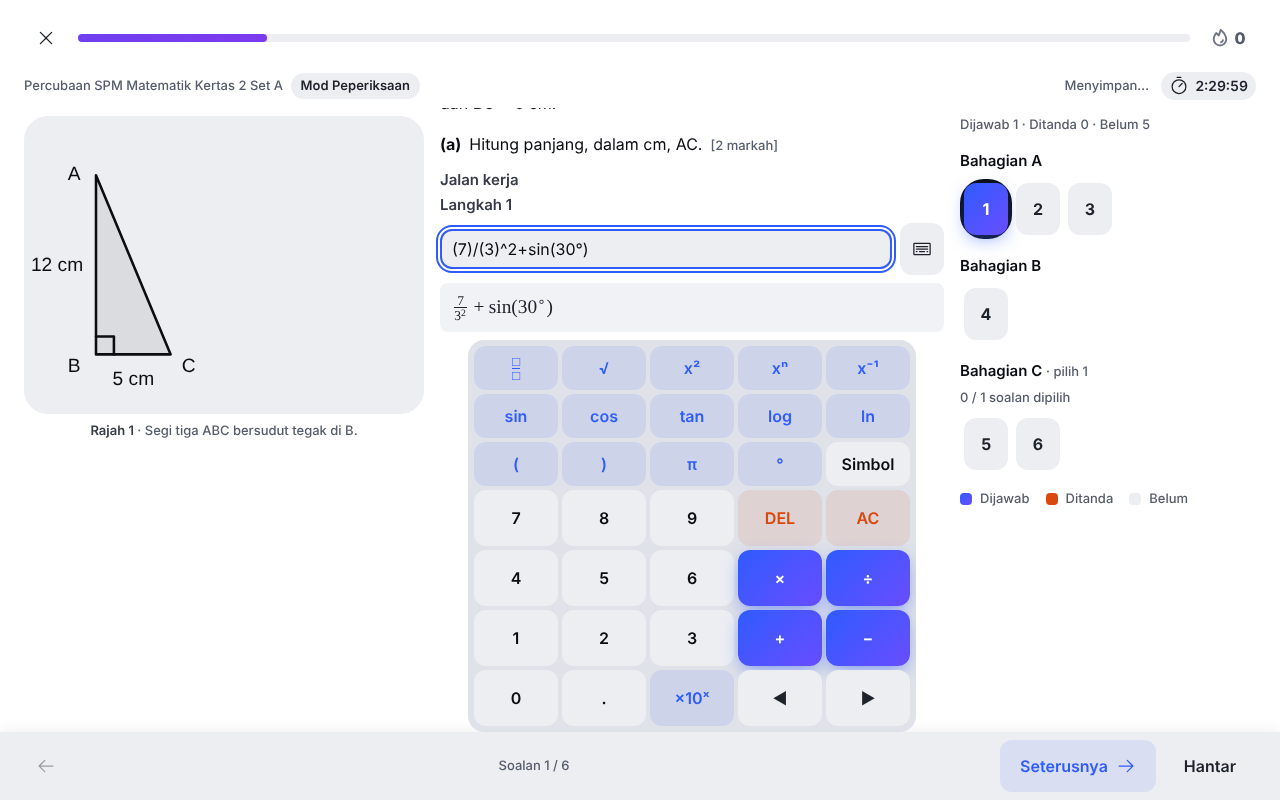
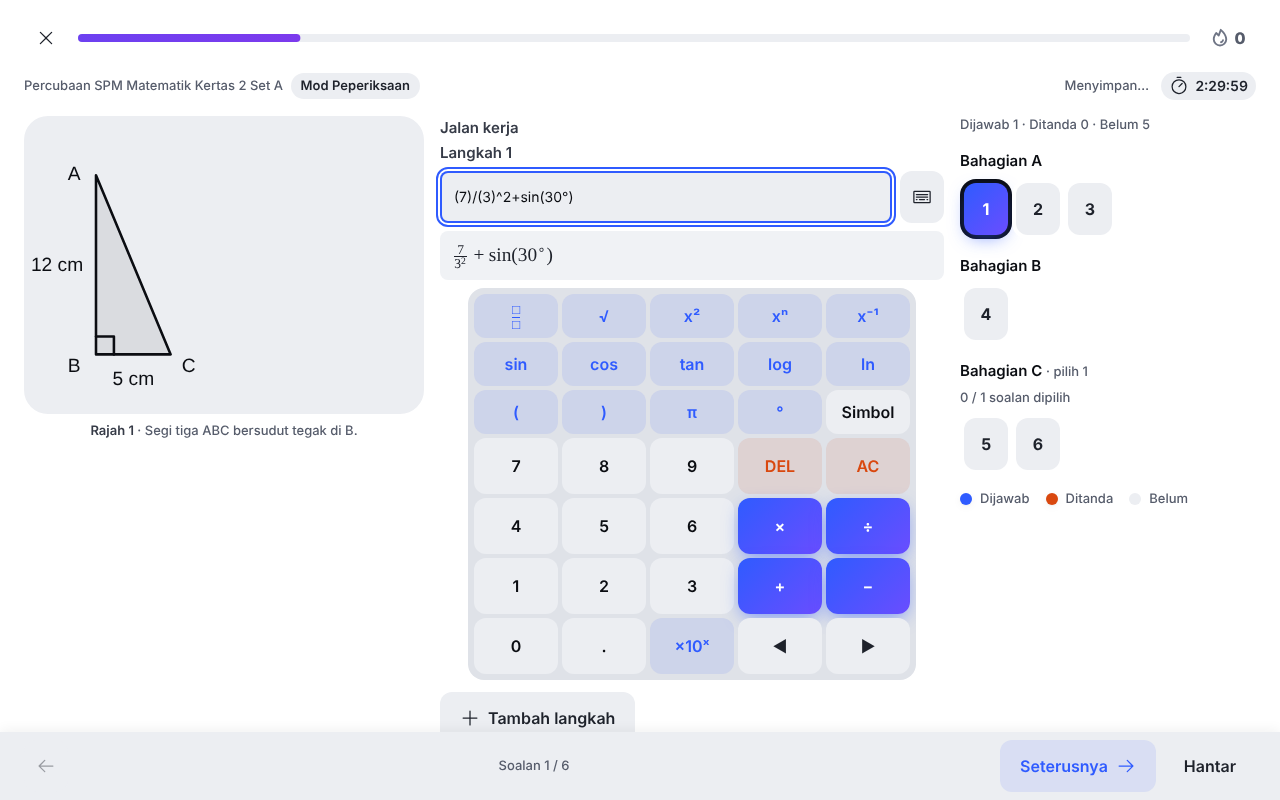
fix(m28-bijak-spm): FB-047 keypad review follow-ups
Tutup returns focus to the field's keypad toggle; the md query is (min-width: 48rem); the
dock scrolls (max-h-dvh) with a sticky display row so a landscape phone still reaches Tutup;
revealField aligns the whole field (label included) under the sticky strip, or hides the label
when there is too little room; MathField input is size lg (>= 44 px); MathField takes an
inputmode prop (none while the keypad is open) and PartInput passes decimal for numeric leaves
instead of the v-decimal-inputmode directive. Evidence screenshots regenerated.

Claude-Session: https://claude.ai/code/session_01TXT87Q9DVT1cfY4XLBf2z9

diff --git a/src/modules/m28-bijak-spm/components/MathField.vue b/src/modules/m28-bijak-spm/components/MathField.vue
@@ -33,18 +33,27 @@ const props = withDefaults(
     hideLabel?: boolean
     /** Allow removing this line (step lines). */
     removable?: boolean
+    /** Soft keyboard hint while the on-screen keypad is closed (it is `none` while it is open). */
+    inputmode?: 'text' | 'decimal'
   }>(),
-  { placeholder: 'cth. 2x + 6', disabled: false, hideLabel: false, removable: false },
+  {
+    placeholder: 'cth. 2x + 6',
+    disabled: false,
+    hideLabel: false,
+    removable: false,
+    inputmode: 'text',
+  },
 )
 const emit = defineEmits<{ 'update:modelValue': [string]; remove: [] }>()
 
 const id = useId()
-const MD_PX = 768
+const MD_REM = 48
 const MEDIA_FEATURE = 'min-width'
-const WIDE_QUERY = `(${MEDIA_FEATURE}: ${MD_PX}px)`
+const WIDE_QUERY = `(${MEDIA_FEATURE}: ${MD_REM}rem)`
 const previewComp = ref<{ $el: HTMLElement } | null>(null)
 const wrapComp = ref<{ $el: HTMLElement } | null>(null)
 const wrap = computed<HTMLElement | null>(() => wrapComp.value?.$el ?? null)
+const toggleBtn = ref<{ $el: HTMLElement } | null>(null)
 const dock = ref<HTMLElement | null>(null)
 const spacer = ref<HTMLElement | null>(null)
 /** From `md` (768 px) the keypad is inline and sticky; below it is a bottom sheet over the footer. */
@@ -144,11 +153,14 @@ async function revealField(): Promise<void> {
   const free = (fixed ? rect.top : area.bottom - rect.height) - 8
   const f = field.getBoundingClientRect()
   const top = area.top + pinnedTop(sc, f.left + f.width / 2) + 4
-  const last = (!wide.value && field) || previewComp.value?.$el || field
-  const delta =
-    f.top < top
-      ? f.top - top
-      : Math.max(0, Math.min(last.getBoundingClientRect().bottom - free, f.top - top))
+  const boxTop = box.getBoundingClientRect().top
+  const last = ((!wide.value && field) || previewComp.value?.$el || field).getBoundingClientRect()
+  let delta: number
+  if (boxTop >= top && last.bottom <= free)
+    delta = 0 // already in the free area
+  else if (last.bottom - (boxTop - top) <= free)
+    delta = boxTop - top // whole field, label first
+  else delta = f.top - top // too little room: the line first, its label under the strip
   if (delta !== 0) sc.scrollTop += delta
 }
 
@@ -162,16 +174,18 @@ function toggleKeypad(): void {
   void revealField()
 }
 
-function closeKeypad(refocus = false): void {
+function closeKeypad(focus?: 'input' | 'toggle'): void {
   openKeypad.value = null
-  if (refocus) input()?.focus({ preventScroll: true })
+  const el =
+    focus === 'toggle' ? (toggleBtn.value?.$el ?? null) : focus === 'input' ? input() : null
+  el?.focus({ preventScroll: true })
 }
 
 /** Esc closes the open keypad from the input line too (the keypad's own Esc handles its keys). */
 function onEsc(e: KeyboardEvent): void {
   if (!keypad.value) return
   e.stopPropagation()
-  closeKeypad(true)
+  closeKeypad('input')
 }
 
 // A tap or focus outside the field and its keypad closes it (keys are inside, so they never do).
@@ -222,17 +236,18 @@ onBeforeUnmount(() => {
         :placeholder="placeholder"
         :disabled="disabled"
         :aria-label="hideLabel ? label : undefined"
-        :inputmode="keypad ? 'none' : 'text'"
+        :inputmode="keypad ? 'none' : inputmode"
         autocomplete="off"
         autocapitalize="off"
         spellcheck="false"
-        size="xl"
+        size="lg"
         class="min-w-0 grow"
         data-testid="math-input"
         @update:model-value="onInput"
         @keydown.enter.prevent
       />
       <UButton
+        ref="toggleBtn"
         type="button"
         color="neutral"
         variant="soft"
@@ -278,7 +293,7 @@ onBeforeUnmount(() => {
       />
       <div
         ref="dock"
-        class="fixed inset-x-0 bottom-0 z-30 md:sticky"
+        class="fixed inset-x-0 bottom-0 z-30 max-h-dvh overflow-y-auto md:sticky"
         data-testid="math-keyboard-dock"
       >
         <DsSurface
@@ -290,43 +305,41 @@ onBeforeUnmount(() => {
         >
           <div class="p-1.5">
             <DsStack gap="2xs">
-              <!-- Sheet display: the preview of the line next to the close key (the footer is under the sheet). -->
-              <DsCluster v-if="!wide" gap="xs" :wrap="false">
-                <DsSurface
-                  level="raised"
-                  padding="none"
-                  radius="chip"
-                  :clip="false"
-                  class="grow overflow-x-auto"
-                  data-testid="math-display"
-                >
-                  <div
-                    class="flex min-h-11 items-center px-3"
-                    :data-testid="hasContent ? 'math-preview' : undefined"
+              <!-- Sheet display: the preview of the line next to the close key (the footer is under the sheet).
+                   It stays on top when a short (landscape) screen scrolls the sheet. -->
+              <div v-if="!wide" class="sticky top-0 z-10 bg-accented">
+                <DsCluster gap="xs" :wrap="false">
+                  <DsSurface
+                    level="raised"
+                    padding="sm"
+                    radius="chip"
+                    :clip="false"
+                    class="min-h-11 grow overflow-x-auto"
+                    data-testid="math-display"
                   >
                     <template v-if="hasContent">
                       <DsText as="span" variant="body" sr-only>Pratonton: </DsText>
-                      <RichText :text="preview" math-only />
+                      <RichText :text="preview" math-only data-testid="math-preview" />
                     </template>
-                  </div>
-                </DsSurface>
-                <UButton
-                  type="button"
-                  color="neutral"
-                  variant="subtle"
-                  icon="i-ph-caret-down"
-                  class="min-h-11 shrink-0 learner:min-h-11"
-                  aria-label="Tutup papan kekunci"
-                  data-testid="math-keyboard-close"
-                  @mousedown.prevent
-                  @click="closeKeypad()"
-                  >Tutup</UButton
-                >
-              </DsCluster>
+                  </DsSurface>
+                  <UButton
+                    type="button"
+                    color="neutral"
+                    variant="subtle"
+                    icon="i-ph-caret-down"
+                    class="min-h-11 shrink-0 learner:min-h-11"
+                    aria-label="Tutup papan kekunci"
+                    data-testid="math-keyboard-close"
+                    @mousedown.prevent
+                    @click="closeKeypad('toggle')"
+                    >Tutup</UButton
+                  >
+                </DsCluster>
+              </div>
               <MathKeyboard
                 label="Papan kekunci matematik"
                 @press="onKey"
-                @close="closeKeypad(true)"
+                @close="closeKeypad('input')"
               />
             </DsStack>
           </div>

diff --git a/src/modules/m28-bijak-spm/components/PartInput.vue b/src/modules/m28-bijak-spm/components/PartInput.vue
@@ -6,7 +6,7 @@
  *  - short_text: a text area.
  * Every change emits a whole new answer; the page autosaves it.
  */
-import { computed, ref, type Directive } from 'vue'
+import { computed, ref } from 'vue'
 
 import { DsStack, DsText } from '@/ds'
 
@@ -40,28 +40,6 @@ const finalInvalid = computed(
     finalTouched.value &&
     !isReadableNumber(answer.value.final ?? ''),
 )
-/**
- * Numeric leaves ask the phone for the decimal keypad. The maths field owns its `inputmode` (it is
- * `none` while its on-screen keypad is open, `text` otherwise), so this directive turns `text` into
- * `decimal` on the field inside the wrapper and keeps doing so after every change.
- */
-type WithObserver = HTMLElement & { __decimalObserver?: MutationObserver }
-const vDecimalInputmode: Directive<WithObserver, boolean> = {
-  mounted(el, { value }) {
-    const input = el.querySelector('input')
-    if (!value || !input) return
-    const apply = (): void => {
-      if (input.getAttribute('inputmode') === 'text') input.setAttribute('inputmode', 'decimal')
-    }
-    apply()
-    el.__decimalObserver = new MutationObserver(apply)
-    el.__decimalObserver.observe(input, { attributes: true, attributeFilter: ['inputmode'] })
-  },
-  unmounted(el) {
-    el.__decimalObserver?.disconnect()
-  },
-}
-
 const photoError = ref('')
 const urls = ref<Record<string, string>>({})
 const fileInput = ref<{ $el: HTMLElement } | null>(null)
@@ -206,15 +184,12 @@ async function dropPhoto(key: string): Promise<void> {
         >
       </fieldset>
 
-      <DsStack
-        v-decimal-inputmode="leaf.kind === 'numeric'"
-        gap="xs"
-        @focusout="finalTouched = true"
-      >
+      <DsStack gap="xs" @focusout="finalTouched = true">
         <MathField
           :model-value="answer.final ?? ''"
           label="Jawapan akhir"
           placeholder="cth. 13"
+          :inputmode="leaf.kind === 'numeric' ? 'decimal' : 'text'"
           :disabled="disabled"
           @update:model-value="update({ final: $event })"
         />

diff --git a/src/modules/m28-bijak-spm/__tests__/math-keypad.test.ts b/src/modules/m28-bijak-spm/__tests__/math-keypad.test.ts
@@ -421,4 +421,41 @@ describe('keypad closing (FB-047 follow-up)', () => {
     expect(w.find('[data-testid=math-keyboard]').exists()).toBe(false)
     w.unmount()
   })
+
+  it('Tutup gives the focus to the keypad toggle, not to the page', async () => {
+    phone()
+    const w = mount(MathField, {
+      props: { modelValue: '1', label: 'Langkah 1' },
+      global,
+      attachTo: document.body,
+    })
+    await w.get('[data-testid=math-keypad-toggle]').trigger('click')
+    await w.get('[data-testid=math-keyboard-close]').trigger('click')
+    expect(document.activeElement).toBe(w.get('[data-testid=math-keypad-toggle]').element)
+    w.unmount()
+  })
+
+  it('asks the matching media query for md (48rem) and lets the owner pick the inputmode', async () => {
+    const queries: string[] = []
+    vi.stubGlobal('matchMedia', (q: string) => {
+      queries.push(q)
+      return {
+        matches: true,
+        addEventListener: () => undefined,
+        removeEventListener: () => undefined,
+      }
+    })
+    const w = mount(MathField, {
+      props: { modelValue: '', label: 'Jawapan akhir', inputmode: 'decimal' },
+      global,
+      attachTo: document.body,
+    })
+    expect(queries).toContain('(min-width: 48rem)')
+    expect(w.get('input').attributes('inputmode')).toBe('decimal')
+    await w.get('[data-testid=math-keypad-toggle]').trigger('click')
+    expect(w.get('input').attributes('inputmode')).toBe('none')
+    await w.get('[data-testid=math-keypad-toggle]').trigger('click')
+    expect(w.get('input').attributes('inputmode')).toBe('decimal')
+    w.unmount()
+  })
 })
